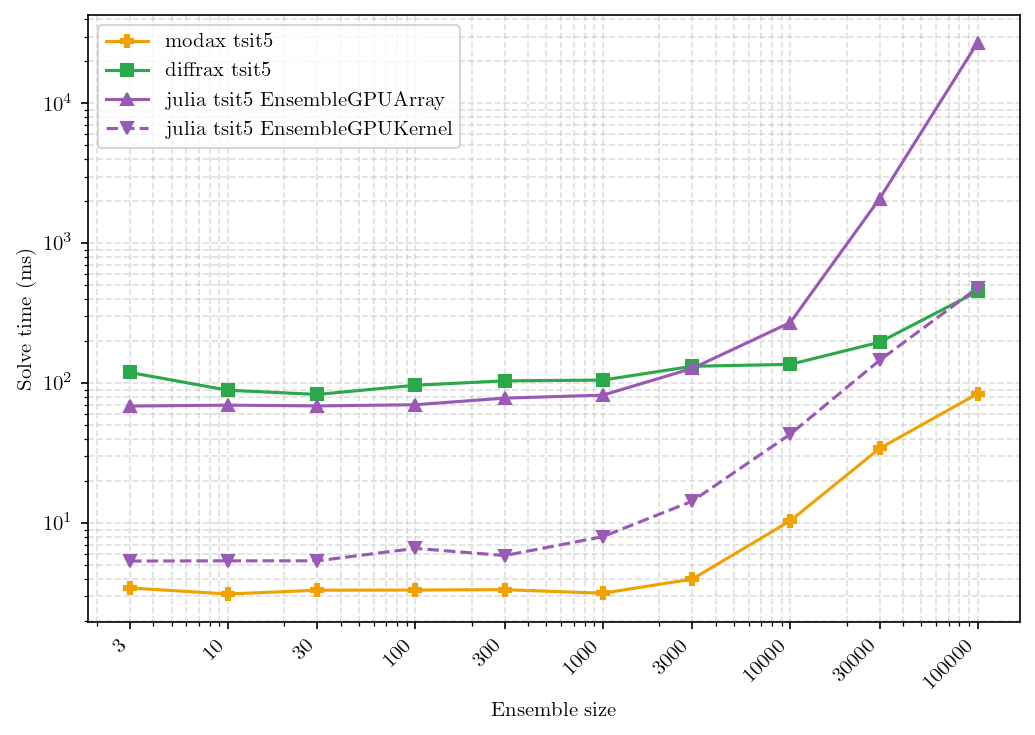
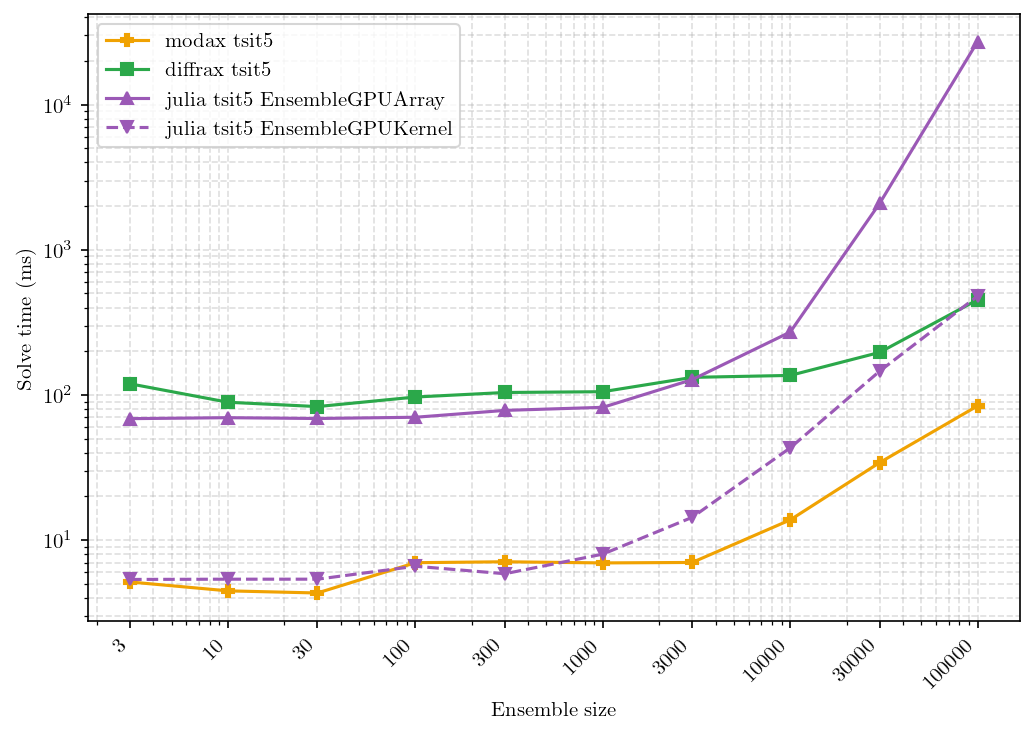
Drop Tsit5's shared-memory path and its backend argument
Tsit5 kept two kernels behind a backend argument: one holding the stage vectors in per-block shared memory, chosen by "auto" when the state had at most 16 components and the ensemble at most 16384 trajectories, and one holding them in the transposed (n_vars, n) global scratch arrays XLA allocates for the launch. Only the second remains, with no argument to choose; the test that pinned the two bit-identical goes with the first, and the docs no longer describe it. The Tsit5 points the benchmarks had measured on the shared kernel, the Lorenz scaling sweep up to 10000 trajectories and the non-stiff VDP dimensionality sweep up to 16 dimensions, were re-measured on the remaining kernel, which is slower there, as the shared path's own comment said it would be: about 7 ms against 3.3 ms across the small Lorenz ensembles.

diff --git a/modax/tsit5.py b/modax/tsit5.py
@@ -8,7 +8,6 @@ import math
 
 import jax
 import jax.numpy as jnp
-import numpy as np
 from numba_cuda_mlir import cuda
 
 from modax._jax_common import make_custom_vmap_solver, normalize_y0_params
@@ -92,38 +91,10 @@ FACTOR_MAX = 10.0
 # the kernel are expressed relative to this.
 EXPONENT = -1.0 / 5.0
 
-# Hybrid backend. The shared-memory kernel keeps all stage vectors in on-chip
-# shared memory (one thread per trajectory, BLOCK = _SHARED_BLOCK). It wins in
-# the latency-bound regime -- small ensembles and/or low dimension, where the
-# device is under-occupied and shared memory's low latency dominates -- but
-# needs ~9 * _SHARED_BLOCK * n_vars * 8 bytes of static shared memory per block
-# (capping n_vars) and its low occupancy loses to the transposed-global kernel
-# once the ensemble is large enough to saturate the GPU. The thresholds bound
-# the regime where shared was measured to win on an RTX 4070 SUPER; outside it
-# the global kernel is used. Retune per GPU or override via ``backend``.
-_SHARED_BLOCK = 32
-_SHARED_MAX_NVARS = 16
-_SHARED_MAX_ENSEMBLE = 16384
-_GLOBAL_BLOCK = 128
-
-
-def _use_shared_backend(n: int, n_vars: int, backend: str) -> bool:
-    if backend == "global":
-        return False
-    if backend == "shared":
-        if n_vars > _SHARED_MAX_NVARS:
-            raise ValueError(
-                "shared backend requires a system size <= "
-                f"{_SHARED_MAX_NVARS}; got {n_vars}. A solve carrying forward "
-                "sensitivities integrates n_vars * (1 + n_sens) components, so "
-                "it may need backend='global' where the plain solve does not"
-            )
-        return True
-    if backend != "auto":
-        raise ValueError(
-            f"backend must be 'auto', 'shared', or 'global'; got {backend!r}"
-        )
-    return n_vars <= _SHARED_MAX_NVARS and n <= _SHARED_MAX_ENSEMBLE
+# One thread per trajectory. The stage vectors are global ``(n_vars, n)``
+# scratch arrays XLA allocates for the launch, transposed like the state so a
+# warp's accesses are coalesced; nothing on chip bounds the block size.
+_BLOCK = 128
 
 
 def clear_caches() -> None:
@@ -135,7 +106,6 @@ def clear_caches() -> None:
     """
     _make_body.cache_clear()
     _make_kernel.cache_clear()
-    _make_shared_kernel.cache_clear()
     _make_jax_launch.cache_clear()
     clear_sensitivity_caches()
     gc.collect()
@@ -152,12 +122,9 @@ def _make_body(
 ):
     """Build the per-trajectory Tsit5 integration loop as a CUDA device fn.
 
-    The body is storage-agnostic: ``i`` indexes the per-trajectory global arrays
-    (``y0``/``weights``/``hist``/stats) while ``s`` indexes the stage workspace
-    columns. The global kernel passes ``s = i`` (stage vectors are global
-    ``(n_vars, n)`` arrays); the shared kernel passes ``s = threadIdx.x`` (stage
-    vectors are per-block shared ``(n_vars, BLOCK)`` arrays). This keeps both
-    backends sharing a single integrator implementation.
+    ``i`` indexes the per-trajectory global arrays (``y0``/``weights``/``hist``/
+    stats) and ``s`` the column of the ``(n_vars, n)`` stage workspace; the
+    kernel passes the same trajectory index for both.
     """
     # PID step-control exponents (Soderlind). Defaults (0, 1, 0) give E1=EXPONENT
     # and E2=E3=0, recovering the elementary I-controller exactly.
@@ -409,7 +376,7 @@ def _make_kernel(
     dcoeff: float = 0.0,
     spec: SensitivitySpec | None = None,
 ):
-    """Transposed-global kernel: stage vectors are global ``(n_vars, n)`` arrays."""
+    """One thread per trajectory; stage vectors are global ``(n_vars, n)`` arrays."""
     body = _make_body(ode_fn, n_vars, pcoeff, icoeff, dcoeff, spec)
 
     @cuda.jit
@@ -469,82 +436,6 @@ def _make_kernel(
 
 
 @functools.cache
-def _make_shared_kernel(
-    ode_fn,
-    n_vars: int,
-    pcoeff: float = 0.0,
-    icoeff: float = 1.0,
-    dcoeff: float = 0.0,
-    spec: SensitivitySpec | None = None,
-):
-    """Shared-memory kernel: stage vectors live in per-block shared memory.
-
-    One thread per trajectory, ``_SHARED_BLOCK`` threads per block. The stage
-    workspace is nine ``(n_vars, _SHARED_BLOCK)`` shared arrays (transposed so
-    consecutive lanes are contiguous -> bank-conflict-free), indexed by
-    ``threadIdx.x``. No scratch is passed in or written out.
-    """
-    body = _make_body(ode_fn, n_vars, pcoeff, icoeff, dcoeff, spec)
-    shape = (n_vars if spec is None else spec.n_aug, _SHARED_BLOCK)
-
-    @cuda.jit
-    def kernel(
-        y0,
-        times,
-        params,
-        dt0,
-        rtol,
-        atol,
-        max_steps,
-        weights,
-        hist,
-        accepted_out,
-        rejected_out,
-        loop_out,
-    ):
-        i = cuda.grid(1)  # ty: ignore[unresolved-attribute]
-        tx = cuda.threadIdx.x  # ty: ignore[unresolved-attribute]
-        if i >= y0.shape[1]:
-            return
-        y = cuda.shared.array(shape=shape, dtype=np.float64)
-        u = cuda.shared.array(shape=shape, dtype=np.float64)
-        k1 = cuda.shared.array(shape=shape, dtype=np.float64)
-        k2 = cuda.shared.array(shape=shape, dtype=np.float64)
-        k3 = cuda.shared.array(shape=shape, dtype=np.float64)
-        k4 = cuda.shared.array(shape=shape, dtype=np.float64)
-        k5 = cuda.shared.array(shape=shape, dtype=np.float64)
-        k6 = cuda.shared.array(shape=shape, dtype=np.float64)
-        k7 = cuda.shared.array(shape=shape, dtype=np.float64)
-        body(
-            y0,
-            times,
-            params,
-            dt0,
-            rtol,
-            atol,
-            max_steps,
-            weights,
-            hist,
-            accepted_out,
-            rejected_out,
-            loop_out,
-            y,
-            u,
-            k1,
-            k2,
-            k3,
-            k4,
-            k5,
-            k6,
-            k7,
-            i,
-            tx,
-        )
-
-    return kernel
-
-
-@functools.cache
 def _make_jax_launch(
     ode_fn,
     n: int,
@@ -552,21 +443,13 @@ def _make_jax_launch(
     pcoeff: float = 0.0,
     icoeff: float = 1.0,
     dcoeff: float = 0.0,
-    uses_shared: bool = False,
     spec: SensitivitySpec | None = None,
 ):
     """Compile, load and size the kernel behind one JAX-side ensemble launch."""
-    if uses_shared:
-        # No scratch arrays: the shared kernel keeps its stage workspace on chip.
-        kernel = _make_shared_kernel(ode_fn, n_vars, pcoeff, icoeff, dcoeff, spec)
-        argtypes = SOLVER_ARGTYPES
-        threads = _SHARED_BLOCK
-    else:
-        kernel = _make_kernel(ode_fn, n_vars, pcoeff, icoeff, dcoeff, spec)
-        argtypes = SOLVER_ARGTYPES + (SCRATCH_ARGTYPE,) * 9
-        threads = _GLOBAL_BLOCK
-    blocks = (n + threads - 1) // threads
-    return make_launch(kernel, argtypes, grid=blocks, block=threads)
+    kernel = _make_kernel(ode_fn, n_vars, pcoeff, icoeff, dcoeff, spec)
+    argtypes = SOLVER_ARGTYPES + (SCRATCH_ARGTYPE,) * 9
+    blocks = (n + _BLOCK - 1) // _BLOCK
+    return make_launch(kernel, argtypes, grid=blocks, block=_BLOCK)
 
 
 def solve(
@@ -584,7 +467,6 @@ def solve(
     pcoeff=0.0,
     icoeff=1.0,
     dcoeff=0.0,
-    backend="auto",
     sens_error_control=True,
     sens_param_columns=None,
 ):
@@ -617,7 +499,6 @@ def solve(
         pcoeff=pcoeff,
         icoeff=icoeff,
         dcoeff=dcoeff,
-        backend=backend,
     )
     # The JVP rule wraps the vmap-aware solvers rather than the other way
     # round: custom_vmap's own JVP path instantiates symbolic zeros, which is
@@ -666,7 +547,6 @@ def _solve_impl(
     pcoeff=0.0,
     icoeff=1.0,
     dcoeff=0.0,
-    backend="auto",
     spec=None,
 ):
     y0_arr, params_arr, n, n_vars = normalize_y0_params(y0, params)
@@ -683,16 +563,10 @@ def _solve_impl(
         weights_host = augmented_error_weights(weights_host, spec)
     weights_arr = jnp.asarray(weights_host)
 
-    uses_shared = _use_shared_backend(n, n_system, backend)
-    launch = _make_jax_launch(
-        ode_fn, n, n_vars, pcoeff, icoeff, dcoeff, uses_shared, spec
-    )
-    # The shared kernel keeps its stage workspace on chip and so needs no
-    # scratch outputs; the global kernel's nine stage vectors are transposed
+    launch = _make_jax_launch(ode_fn, n, n_vars, pcoeff, icoeff, dcoeff, spec)
+    # The nine stage vectors are scratch outputs of the custom call, transposed
     # like the state.
-    scratch_specs = (
-        () if uses_shared else (jax.ShapeDtypeStruct((n_system, n), jnp.float64),) * 9
-    )
+    scratch_specs = (jax.ShapeDtypeStruct((n_system, n), jnp.float64),) * 9
     # State/stage/weights are transposed (n_system, n) so the kernel's warp
     # accesses are coalesced; XLA materializes the transpose as a C-contiguous
     # operand. hist keeps the (n, n_save, n_system) output layout.

diff --git a/tests/test_solvers.py b/tests/test_solvers.py
@@ -34,25 +34,6 @@ def test_tsit5_reference_system(benchmark, case):
     assert_case_output(result, case)
 
 
-def test_tsit5_shared_matches_global():
-    """The shared-memory and transposed-global backends must be bit-identical."""
-    import numpy as np
-
-    from reference.systems.python import vdp
-
-    n_osc = 4  # dim = 8: fits the shared-memory backend
-    ode_fn, _ = vdp.make_system(n_osc, mu=1.0)
-    y0, params = vdp.make_scenario(n_osc, 256, divergence=1.0)
-    y0 = jnp.asarray(np.ascontiguousarray(y0))
-    params = jnp.asarray(np.ascontiguousarray(params))
-    t_span = jnp.asarray(vdp.TIMES)
-    kw = dict(first_step=1e-4, rtol=1e-6, atol=1e-8)
-
-    shared = tsit5numba_solve(ode_fn, y0, t_span, params, backend="shared", **kw)
-    glob = tsit5numba_solve(ode_fn, y0, t_span, params, backend="global", **kw)
-    assert float(jnp.max(jnp.abs(shared - glob))) == 0.0
-
-
 @pytest.mark.parametrize("solve_fn", (tsit5numba_solve, rodas5Pnumba_solve))
 def test_default_first_step_matches_explicit(solve_fn):
     """``first_step=None`` is derived inside the kernel, so it survives tracing.

diff --git a/README.md b/README.md
@@ -476,9 +476,8 @@ still one CUDA thread per trajectory with no cross-trajectory communication.
 The asymptotics are not the only obstacle to differentiating the solver kernel
 itself with Enzyme, the way `ode_fn` is differentiated; it is impractical here
 for mechanical reasons too. The kernels are not ordinary functions: they are
-hand-written CUDA with per-trajectory adaptive stepping, hand-written linear
-algebra over thread-local buffers, and `syncthreads` barriers in Tsit5's shared
-backend.
+hand-written CUDA with per-trajectory adaptive stepping and hand-written
+linear algebra over thread-local buffers.
 Reverse mode through that, and through the step controller's data-dependent
 control flow, is exactly where Enzyme-GPU stops working, and a reverse pass would in any
 case need a tape of every stage of every step — at $10^5$ trajectories and

diff --git a/AGENTS.md b/AGENTS.md
@@ -523,8 +523,10 @@ touching the code.
   a warp diverge and the block runs until its slowest trajectory finishes.
   Rodas5P needs no barrier at all: a finished thread simply returns.
 - In-kernel LU factorisation, entirely in thread-local memory.
-- `tsit5` has `backend="shared"` and `backend="global"` paths, selected by
-  whether the state fits in shared memory; the two are bit-identical.
+- `tsit5` keeps its stage vectors in `(n_vars, n)` global scratch arrays that
+  XLA allocates for the launch, transposed like the state so a warp's accesses
+  coalesce. It once had a shared-memory path too, chosen by a `backend`
+  argument when the state fit on chip; that was removed for simplicity.
 
 ### Reference and benchmarks
 

diff --git a/docs/guide/kernel-design.md b/docs/guide/kernel-design.md
@@ -10,8 +10,9 @@ and nothing synchronises inside a step.
 That is why `trajectories_per_block` is free to be anything — nothing on chip
 bounds it — and why `trajectories_per_block_or_default` defaults it to a warp.
 
-`tsit5` keeps two paths, `backend="shared"` and `backend="global"`, selected by
-whether the stage workspace fits in shared memory. They are bit-identical.
+`tsit5` keeps its stage vectors in `(n_vars, n)` global scratch arrays that
+XLA allocates for the launch, transposed like the state so a warp's accesses
+coalesce.
 
 ## How a solve reaches the GPU
 

diff --git a/docs/guide/api.md b/docs/guide/api.md
@@ -84,10 +84,3 @@ history.
     then shrinks the history output to the final state, `(N, 1, n_vars)`. A
     hooked solve returns `(hist, hook_out)` and is a plain ensemble launch: no
     `jax.vmap`, no differentiation.
-
-## Arguments only Tsit5 takes
-
-`backend`
-:   `"auto"` (the default), `"shared"` or `"global"`, selecting whether the
-    stage workspace lives in shared memory or in global scratch. `"auto"`
-    picks on whether the state fits on chip; the two paths are bit-identical.
